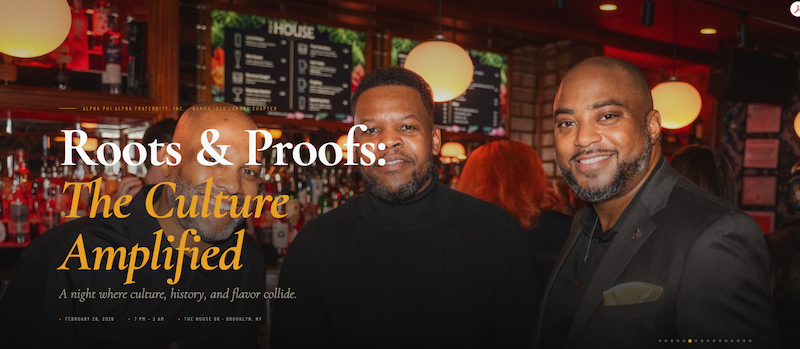
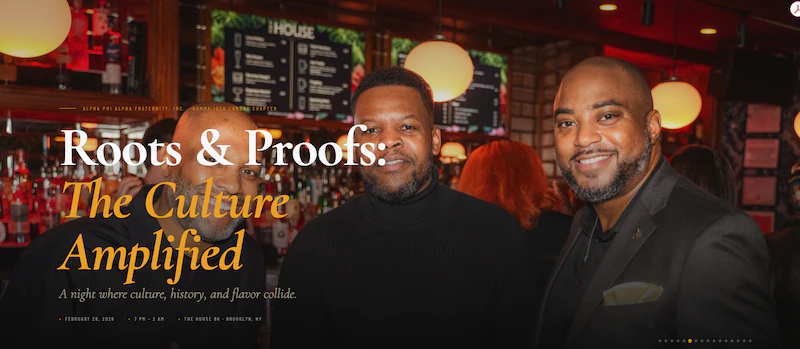
Compress project screenshots and give them true dimensions
The screenshots were lossless WebP, 79 to 314 KB each for 800px images.
Five of the six are now lossy WebP at quality 90 with smart chroma
subsampling (17 to 55 KB, PSNR 37 to 44 dB, no visible difference at 2x
zoom), saving about 720 KB on desktop. The Nichole Gabrielle screenshot
is left as is because PR 1 asks for it to be replaced.

Each img now carries its real width and height instead of 800x600.
Layout is unchanged, since the card's 4:3 frame sizes the image.

Claude-Session: https://claude.ai/code/session_01WNkxtirvpLRRJdyuH62neC

diff --git a/index.html b/index.html
@@ -292,7 +292,7 @@
           <div class="project-card__img">
             <img src="/public/project-amandalaiken.webp"
                  alt="Dr. Amanda L. Aiken: personal website for an executive coach and leadership strategist, bringing together her story, her speaking, and the three organizations she leads."
-                 width="800" height="600" loading="lazy" decoding="async" />
+                 width="800" height="372" loading="lazy" decoding="async" />
             <div class="project-card__overlay">
               <a href="https://www.amandalaiken.com" target="_blank" rel="noopener" class="project-card__link" data-outbound="project_amandalaiken">View Project →</a>
             </div>
@@ -320,7 +320,7 @@
           <div class="project-card__img">
             <img src="/public/project-villagelions.webp"
                  alt="Village Lions RFC: website for a New York City rugby club, with team pages, a match schedule, training locations, and donations."
-                 width="800" height="600" loading="lazy" decoding="async" />
+                 width="800" height="372" loading="lazy" decoding="async" />
             <div class="project-card__overlay">
               <a href="https://villagelions-site.vercel.app/" target="_blank" rel="noopener" class="project-card__link" data-outbound="project_villagelions">View Preview →</a>
             </div>
@@ -349,7 +349,7 @@
           <div class="project-card__img">
             <img src="/public/project-nicholegabrielle.webp"
                  alt="Nichole Gabrielle & Co.: website for a speaker and coach, with her services, speaking, a free guide, and her Substack essays."
-                 width="800" height="600" loading="lazy" decoding="async" />
+                 width="800" height="372" loading="lazy" decoding="async" />
             <div class="project-card__overlay">
               <a href="https://nicholegabrielle-site.vercel.app/" target="_blank" rel="noopener" class="project-card__link" data-outbound="project_nicholegabrielle">View Preview →</a>
             </div>
@@ -378,7 +378,7 @@
           <div class="project-card__img">
             <img src="/public/project-rootsandproofs.webp"
                  alt="Roots & Proofs 26 — immersive event website for a Brooklyn cultural night, with full-bleed photo hero and ticketing integration."
-                 width="800" height="600" loading="lazy" decoding="async" />
+                 width="800" height="349" loading="lazy" decoding="async" />
             <div class="project-card__overlay">
               <a href="https://www.rootsandproofs26.com" target="_blank" rel="noopener" class="project-card__link" data-outbound="project_rootsandproofs">View Project →</a>
             </div>
@@ -407,7 +407,7 @@
           <div class="project-card__img">
             <img src="/public/project-tend.webp"
                  alt="Tend: Recovery Care — iOS app landing page that turns hospital discharge paperwork into a structured recovery schedule."
-                 width="800" height="600" loading="lazy" decoding="async" />
+                 width="800" height="375" loading="lazy" decoding="async" />
             <div class="project-card__overlay">
               <a href="https://www.tendrecovery.app" target="_blank" rel="noopener" class="project-card__link" data-outbound="project_tend">View Project →</a>
             </div>
@@ -435,7 +435,7 @@
           <div class="project-card__img">
             <img src="/public/project-alphas.webp"
                  alt="The Brooklyn Alphas — full organizational website for the Gamma Iota Lambda Chapter of Alpha Phi Alpha Fraternity, with history, programs, and member tools."
-                 width="800" height="600" loading="lazy" decoding="async" />
+                 width="800" height="371" loading="lazy" decoding="async" />
             <div class="project-card__overlay">
               <a href="https://www.gil1906.org" target="_blank" rel="noopener" class="project-card__link" data-outbound="project_alphas">View Project →</a>
             </div>
